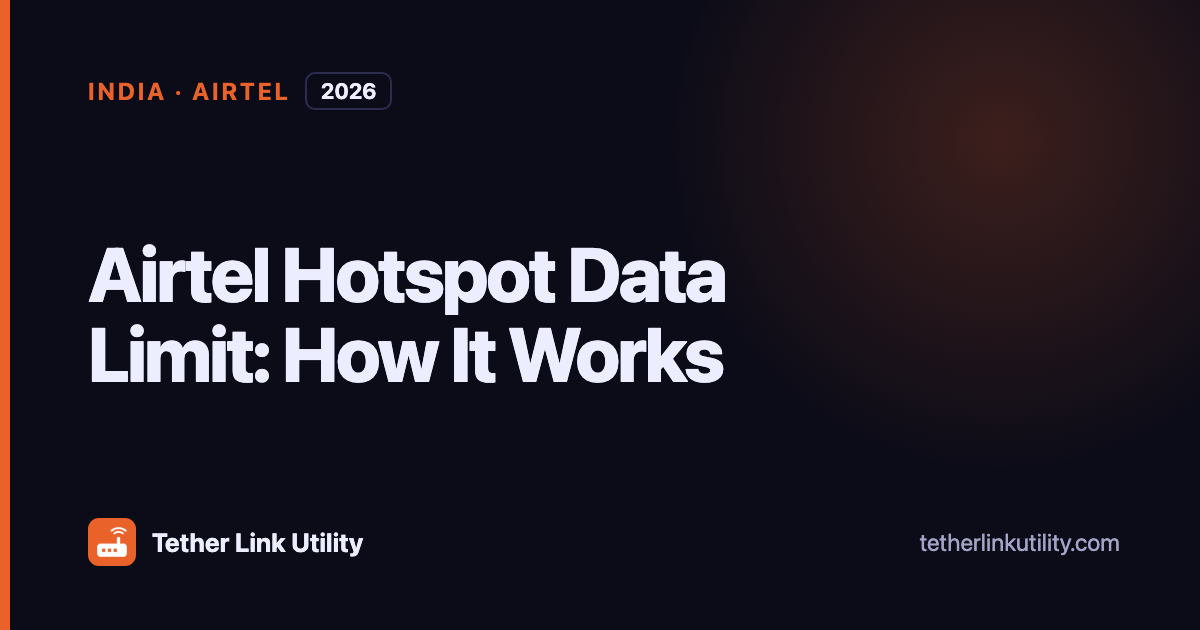
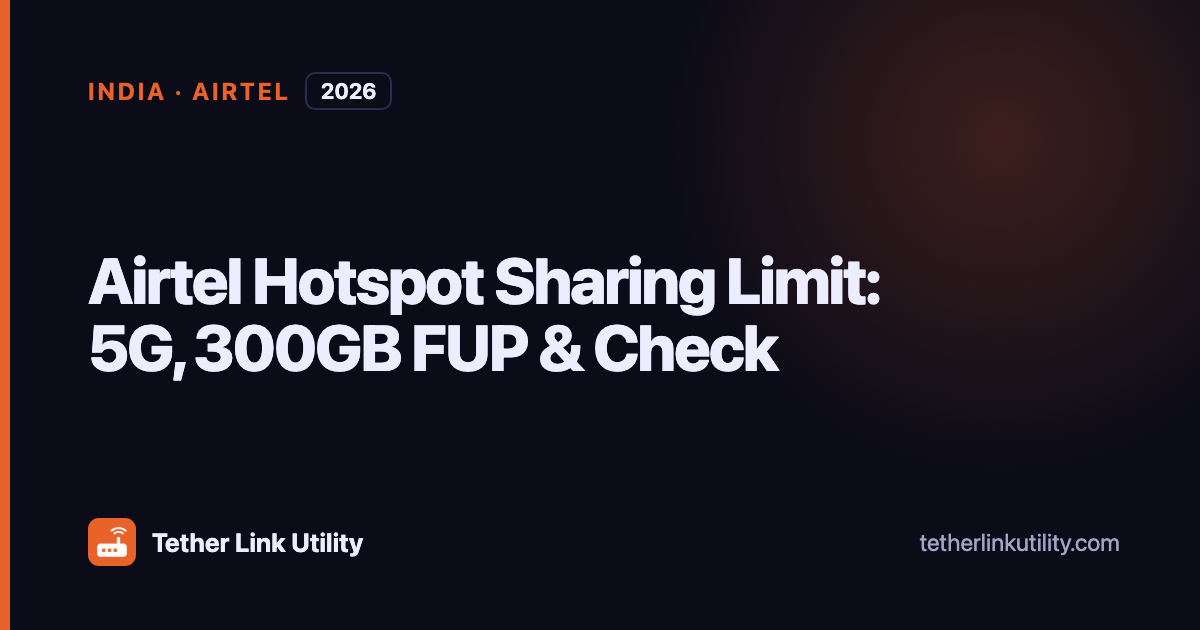
Blog: sharper titles and descriptions for Jio and Airtel hotspot posts (EN, TR, HI)

Changed region(s): [[0.0617, 0.3921, 0.74, 0.6032]]

diff --git a/src/hi/blog/jio-hotspot-data-limit.html b/src/hi/blog/jio-hotspot-data-limit.html
@@ -1,6 +1,6 @@
 ---
-title: "Jio हॉटस्पॉट डेटा लिमिट (2026): अपनी लिमिट कैसे चेक करें"
-description: "Jio का हॉटस्पॉट लिमिट क्या है, आपके पास कितना हॉटस्पॉट डेटा बचा है यह कैसे चेक करें, और डेटा खत्म होने पर आपके पास क्या विकल्प हैं।"
+title: "Jio हॉटस्पॉट लिमिट (2026): 5G, डेली डेटा और शेयरिंग नियम"
+description: "Jio हॉटस्पॉट शेयरिंग लिमिट: हॉटस्पॉट आपके डेली डेटा से कटता है। Unlimited 5G नियम, कितने डिवाइस जुड़ सकते हैं, और MyJio में इस्तेमाल कैसे चेक करें।"
 published: "2026-09-18"
 modified: "2026-09-26"
 carrierTable: true
@@ -30,7 +30,7 @@ index:
   excerpt: "Jio की हॉटस्पॉट लिमिट क्या है, बचा हुआ हॉटस्पॉट डेटा कैसे चेक करें, और खत्म होने पर आपके विकल्प।"
 ---
     <div class="page-eyebrow">ब्लॉग</div>
-    <h1>Jio हॉटस्पॉट डेटा लिमिट (2026): अपनी लिमिट कैसे चेक करें</h1>
+    <h1>Jio हॉटस्पॉट लिमिट (2026): 5G, डेली डेटा और शेयरिंग नियम</h1>
     <div class="post-meta">प्रकाशित 18 सितंबर, 2026 &middot; अपडेट 26 सितंबर, 2026</div>
 
     <p>कई Jio प्रीपेड प्लान पर हॉटस्पॉट (टेदरिंग) का इस्तेमाल किसी अलग कोटे में नहीं गिना जाता। यह उसी डेली हाई-स्पीड डेटा अलाउंस से कटता है जिससे आपके फ़ोन की ब्राउज़िंग होती है। यह समझना आसान है, लेकिन इसका मतलब यह भी है कि हॉटस्पॉट से जुड़ा लैपटॉप अकेले फ़ोन के मुकाबले उस दिन का अलाउंस कहीं जल्दी खत्म कर सकता है, क्योंकि लैपटॉप अपडेट डाउनलोड करते हैं, फ़ाइलें सिंक करते हैं और ऊंची क्वालिटी में स्ट्रीम करते हैं।</p>

diff --git a/src/hi/blog/airtel-hotspot-data-limit.html b/src/hi/blog/airtel-hotspot-data-limit.html
@@ -1,6 +1,6 @@
 ---
-title: "Airtel हॉटस्पॉट डेटा लिमिट (2026): कैसे काम करती है और कैसे चेक करें"
-description: "प्रीपेड और 5G प्लान पर Airtel के हॉटस्पॉट और टेदरिंग लिमिट को समझें, अपना इस्तेमाल कैसे चेक करें, और आपके आधिकारिक विकल्प क्या हैं।"
+title: "Airtel हॉटस्पॉट शेयरिंग लिमिट (2026): 5G और 300GB FUP"
+description: "क्या Airtel Unlimited 5G में हॉटस्पॉट शेयरिंग शामिल है? नहीं, यह रेगुलर डेटा से कटता है। 300GB FUP, इस्तेमाल कैसे चेक करें और डेटा खत्म होने पर क्या करें।"
 published: "2026-09-21"
 modified: "2026-09-26"
 carrierTable: true
@@ -29,7 +29,7 @@ index:
   excerpt: "Airtel के प्रीपेड और 5G प्लान पर हॉटस्पॉट और टेदरिंग लिमिट, इस्तेमाल कैसे चेक करें, और आधिकारिक विकल्प।"
 ---
     <div class="page-eyebrow">ब्लॉग</div>
-    <h1>Airtel हॉटस्पॉट डेटा लिमिट (2026): कैसे काम करती है और कैसे चेक करें</h1>
+    <h1>Airtel हॉटस्पॉट शेयरिंग लिमिट (2026): 5G और 300GB FUP</h1>
     <div class="post-meta">प्रकाशित 21 सितंबर, 2026 &middot; अपडेट 26 सितंबर, 2026</div>
 
     <p>हॉटस्पॉट के मामले में Airtel के "Unlimited 5G" प्लान को गलत समझना आसान है। Airtel की अपनी शर्तों में लिखा है कि Unlimited 5G बेनिफ़िट पर मोबाइल हॉटस्पॉट से डेटा शेयर करने की अनुमति नहीं है, और Unlimited 5G बेनिफ़िट खुद हर 30 दिन के साइकल में 300GB की फ़ेयर यूसेज पॉलिसी (FUP) के अधीन है। प्लान के नाम से ये दोनों बातें साफ़ नहीं होतीं।</p>

diff --git a/src/blog/airtel-hotspot-data-limit.html b/src/blog/airtel-hotspot-data-limit.html
@@ -1,11 +1,11 @@
 ---
-title: "Airtel Hotspot Limit 2026: 300GB FUP, 5G &amp; How to Check"
-description: "Airtel&#x27;s Unlimited 5G does not cover hotspot use, so it counts against your regular data. See the 300GB FUP, how to check usage and your official options."
+title: "Airtel Hotspot Sharing Limit (2026): 5G, 300GB FUP &amp; Check"
+description: "Is hotspot sharing covered by Airtel Unlimited 5G? No, it uses your regular data. See the 300GB FUP, how to check usage and what to do when data runs out."
 published: "2026-09-21"
 modified: "2026-09-26"
-ogTitle: "Airtel Hotspot Data Limit (2026): How It Works"
-ldHeadline: "Airtel Hotspot Limit 2026: 300GB FUP, 5G & How to Check"
-ldDescription: "Airtel's Unlimited 5G does not cover hotspot use, so it counts against your regular data. See the 300GB FUP, how to check usage and your official options."
+ogTitle: "Airtel Hotspot Sharing Limit (2026): 5G, 300GB FUP &amp; Check"
+ldHeadline: "Airtel Hotspot Sharing Limit (2026): 5G, 300GB FUP & Check"
+ldDescription: "Is hotspot sharing covered by Airtel Unlimited 5G? No, it uses your regular data. See the 300GB FUP, how to check usage and what to do when data runs out."
 region: "India"
 carrier: "Airtel"
 quick:
@@ -28,13 +28,13 @@ sitemap:
 index:
   order: 13
   excerpt: "How Airtel's hotspot and tethering limits work on prepaid and 5G plans, how to check your usage, and your official options."
-  ldHeadline: "Airtel Hotspot Data Limit (2026): How It Works & How to Check"
+  ldHeadline: "Airtel Hotspot Sharing Limit (2026): 5G, 300GB FUP & Check"
 llms:
   order: 8
-  text: "Airtel Hotspot Data Limit (2026): How It Works & How to Check"
+  text: "Airtel Hotspot Sharing Limit (2026): 5G, 300GB FUP & Check"
 ---
     <div class="page-eyebrow">Blog</div>
-    <h1>Airtel Hotspot Data Limit (2026): How It Works &amp; How to Check</h1>
+    <h1>Airtel Hotspot Sharing Limit (2026): 5G, 300GB FUP &amp; Check</h1>
     <div class="post-meta">Published September 21, 2026 &middot; Updated September 26, 2026</div>
 
     <p>Airtel's "Unlimited 5G" plans are easy to misread when it comes to hotspot. Airtel's own terms state that data sharing via mobile hotspot is not allowed on the Unlimited 5G benefit, and that the Unlimited 5G benefit itself is subject to a Fair Usage Policy (FUP) of 300GB per 30-day cycle. Neither point is obvious from the headline plan name.</p>

diff --git a/src/blog/jio-hotspot-data-limit.html b/src/blog/jio-hotspot-data-limit.html
@@ -1,11 +1,11 @@
 ---
-title: "Jio Hotspot Limit 2026: Daily Data, 5G &amp; How to Check"
-ldHeadline: "Jio Hotspot Limit 2026: Daily Data, 5G & How to Check"
-description: "On many Jio plans hotspot uses your daily high-speed data. See how Unlimited 5G works, how to check usage in MyJio, and what to do when it runs out."
+title: "Jio Hotspot Limit (2026): 5G, Daily Data &amp; Sharing Rules"
+ldHeadline: "Jio Hotspot Limit (2026): 5G, Daily Data & Sharing Rules"
+description: "Jio hotspot sharing limit explained: hotspot uses your daily data, Unlimited 5G rules, how many devices can connect, and how to check usage in MyJio."
 published: "2026-09-18"
 modified: "2026-09-26"
-ogTitle: "Jio Hotspot Data Limit Explained (2026)"
-ldDescription: "On many Jio plans hotspot uses your daily high-speed data. See how Unlimited 5G works, how to check usage in MyJio, and what to do when it runs out."
+ogTitle: "Jio Hotspot Limit (2026): 5G, Daily Data &amp; Sharing Rules"
+ldDescription: "Jio hotspot sharing limit explained: hotspot uses your daily data, Unlimited 5G rules, how many devices can connect, and how to check usage in MyJio."
 region: "India"
 carrier: "Jio"
 quick:
@@ -31,10 +31,10 @@ index:
   excerpt: "What Jio's hotspot limit is, how to check your remaining data in the MyJio app, and your options when it runs out."
 llms:
   order: 7
-  text: "Jio Hotspot Data Limit Explained (2026): How to Check Yours"
+  text: "Jio Hotspot Limit (2026): 5G, Daily Data & Sharing Rules"
 ---
     <div class="page-eyebrow">Blog</div>
-    <h1>Jio Hotspot Data Limit Explained (2026)</h1>
+    <h1>Jio Hotspot Limit (2026): 5G, Daily Data &amp; Sharing Rules</h1>
     <div class="post-meta">Published September 18, 2026 &middot; Updated September 26, 2026</div>
 
     <p>On many Jio prepaid plans, hotspot (tethering) usage is not a separate bucket. It draws from the same daily high-speed data allowance as browsing on your phone. That is simple to understand, but it also means a laptop connected to your hotspot can use up the day's allowance much faster than the phone alone would, because laptops download updates, sync files and stream at higher quality.</p>

diff --git a/src/tr/blog/jio-hotspot-data-limit.html b/src/tr/blog/jio-hotspot-data-limit.html
@@ -1,6 +1,6 @@
 ---
-title: "Jio Hotspot Veri Sınırı Açıklaması (2026): Kendi Sınırınızı Nasıl Kontrol Edersiniz"
-description: "Jio'nun hotspot sınırının ne olduğu, ne kadar hotspot veriniz kaldığını nasıl kontrol edeceğiniz ve veri bittiğinde seçenekleriniz."
+title: "Jio Hotspot Sınırı (2026): 5G, Günlük Veri ve Paylaşım"
+description: "Jio'da hotspot paylaşım sınırı: hotspot günlük verinizden düşer. Unlimited 5G kuralları, kaç cihaz bağlanabilir ve MyJio'da kullanımı kontrol etme."
 published: "2026-09-18"
 modified: "2026-09-26"
 region: "Hindistan"
@@ -28,7 +28,7 @@ index:
   excerpt: "Jio'nun hotspot sınırının ne olduğu, kalan hotspot verinizi nasıl kontrol edeceğiniz ve veri bitince seçenekleriniz."
 ---
     <div class="page-eyebrow">Blog</div>
-    <h1>Jio Hotspot Veri Sınırı Açıklaması (2026): Kendi Sınırınızı Nasıl Kontrol Edersiniz</h1>
+    <h1>Jio Hotspot Sınırı (2026): 5G, Günlük Veri ve Paylaşım</h1>
     <div class="post-meta">18 Eylül 2026'de yayınlandı &middot; 26 Eylül 2026'da güncellendi</div>
 
     <p>Jio tarifeleri genellikle büyük bir günlük veri hakkı sunar ve birçok tarifede hotspot (tethering) kullanımı ayrı bir havuza bölünmez, telefonunuzdaki kullanımla aynı günlük yüksek hızlı kotadan düşer. Bu yüzden telefonda rahat yeten bir tarife, bir dizüstü bilgisayar bağladığınızda çok daha hızlı biter: bilgisayardaki indirmeler ve görüntülü görüşmeler, aynı sürede telefonda yapılan kullanımdan çok daha fazla veri tüketir.</p>

diff --git a/src/tr/blog/airtel-hotspot-data-limit.html b/src/tr/blog/airtel-hotspot-data-limit.html
@@ -1,6 +1,6 @@
 ---
-title: "Airtel Hotspot Veri Sınırı (2026): Nasıl Çalışır ve Nasıl Kontrol Edilir"
-description: "Airtel'in ön ödemeli ve 5G tarifelerindeki hotspot ve tethering sınırlarını, kullanımınızı nasıl kontrol edeceğinizi ve resmi seçeneklerinizi öğrenin."
+title: "Airtel Hotspot Paylaşım Sınırı (2026): 5G ve 300GB FUP"
+description: "Airtel Unlimited 5G hotspot paylaşımını kapsar mı? Hayır, normal verinizden düşer. 300GB FUP, kullanımı kontrol etme ve veri bitince seçenekler."
 published: "2026-09-21"
 modified: "2026-09-26"
 region: "Hindistan"
@@ -29,7 +29,7 @@ index:
   excerpt: "Airtel'in ön ödemeli ve 5G tarifelerinde hotspot kurallarının nasıl işlediği, kullanımınızı nasıl kontrol edeceğiniz ve resmi seçenekler."
 ---
     <div class="page-eyebrow">Blog</div>
-    <h1>Airtel Hotspot Veri Sınırı (2026): Nasıl Çalışır ve Nasıl Kontrol Edilir</h1>
+    <h1>Airtel Hotspot Paylaşım Sınırı (2026): 5G ve 300GB FUP</h1>
     <div class="post-meta">21 Eylül 2026'de yayınlandı &middot; 26 Eylül 2026'da güncellendi</div>
 
     <p>Airtel'in Unlimited 5G avantajı, hotspot üzerinden veri paylaşmaya başladığınızda telefonda kullandığınızdan farklı işler. Hotspot'u sık kullanıyorsanız, tarifenizin hangi kotasından düştüğünü bilmek sürprizleri önler.</p>

diff --git a/src/hi/blog/understanding-carrier-hotspot-throttling.html b/src/hi/blog/understanding-carrier-hotspot-throttling.html
@@ -73,7 +73,7 @@ index:
         <li><a href="/hi/blog/best-ways-to-bypass-hotspot-throttling.html">फ़ोन का इंटरनेट दूसरे डिवाइस के साथ शेयर करने के 5 तरीके (2026)</a></li>
         <li><a href="/hi/blog/verizon-hotspot-data-cap.html">Verizon हॉटस्पॉट डेटा लिमिट (2026)</a></li>
         <li><a href="/hi/blog/att-hotspot-throttling.html">AT&amp;T हॉटस्पॉट स्पीड और डेटा लिमिट (2026)</a></li>
-        <li><a href="/hi/blog/jio-hotspot-data-limit.html">Jio हॉटस्पॉट डेटा लिमिट (2026): अपनी लिमिट कैसे चेक करें</a></li>
+        <li><a href="/hi/blog/jio-hotspot-data-limit.html">Jio हॉटस्पॉट लिमिट (2026): 5G, डेली डेटा और शेयरिंग नियम</a></li>
         <li><a href="/hi/blog/turkcell-hotspot-data-limit.html">Turkcell हॉटस्पॉट डेटा लिमिट (2026): इसे कैसे चेक करें</a></li>
         <li><a href="/hi/blog/socks5-proxy-setup-windows-macos-ios.html">Windows, macOS और iOS पर SOCKS5 प्रॉक्सी कैसे सेट करें</a></li>
       </ul>

diff --git a/src/tr/blog/understanding-carrier-hotspot-throttling.html b/src/tr/blog/understanding-carrier-hotspot-throttling.html
@@ -67,7 +67,7 @@ index:
         <li><a href="/tr/blog/best-ways-to-bypass-hotspot-throttling.html">Telefonun İnternetini Başka Bir Cihazla Paylaşmanın 5 Yolu (2026)</a></li>
         <li><a href="/tr/blog/verizon-hotspot-data-cap.html">Verizon Hotspot Veri Sınırları Açıklaması (2026)</a></li>
         <li><a href="/tr/blog/att-hotspot-throttling.html">AT&amp;T Hotspot Hız ve Veri Sınırları Açıklaması (2026)</a></li>
-        <li><a href="/tr/blog/jio-hotspot-data-limit.html">Jio Hotspot Veri Sınırı Açıklaması (2026): Kendi Sınırınızı Nasıl Kontrol Edersiniz</a></li>
+        <li><a href="/tr/blog/jio-hotspot-data-limit.html">Jio Hotspot Sınırı (2026): 5G, Günlük Veri ve Paylaşım</a></li>
         <li><a href="/tr/blog/turkcell-hotspot-data-limit.html">Turkcell Hotspot (Paylaşım) Kotası Nedir? 2026'da Nasıl Kontrol Edilir</a></li>
         <li><a href="/tr/blog/socks5-proxy-setup-windows-macos-ios.html">SOCKS5 Proxy Kurulumu: Windows, macOS ve iOS</a></li>
       </ul>

diff --git a/src/blog/understanding-carrier-hotspot-throttling.html b/src/blog/understanding-carrier-hotspot-throttling.html
@@ -74,7 +74,7 @@ llms:
         <li><a href="/blog/best-ways-to-bypass-hotspot-throttling.html">5 Ways to Share Your Phone's Internet With Another Device (2026)</a></li>
         <li><a href="/blog/verizon-hotspot-data-cap.html">Verizon Hotspot Data Limits Explained (2026)</a></li>
         <li><a href="/blog/att-hotspot-throttling.html">AT&amp;T Hotspot Speed &amp; Data Limits Explained (2026)</a></li>
-        <li><a href="/blog/jio-hotspot-data-limit.html">Jio Hotspot Data Limit Explained (2026): How to Check Yours</a></li>
+        <li><a href="/blog/jio-hotspot-data-limit.html">Jio Hotspot Limit (2026): 5G, Daily Data &amp; Sharing Rules</a></li>
         <li><a href="/blog/turkcell-hotspot-data-limit.html">Turkcell Hotspot Data Limit Explained (2026): How to Check It</a></li>
       </ul>
     </div>
